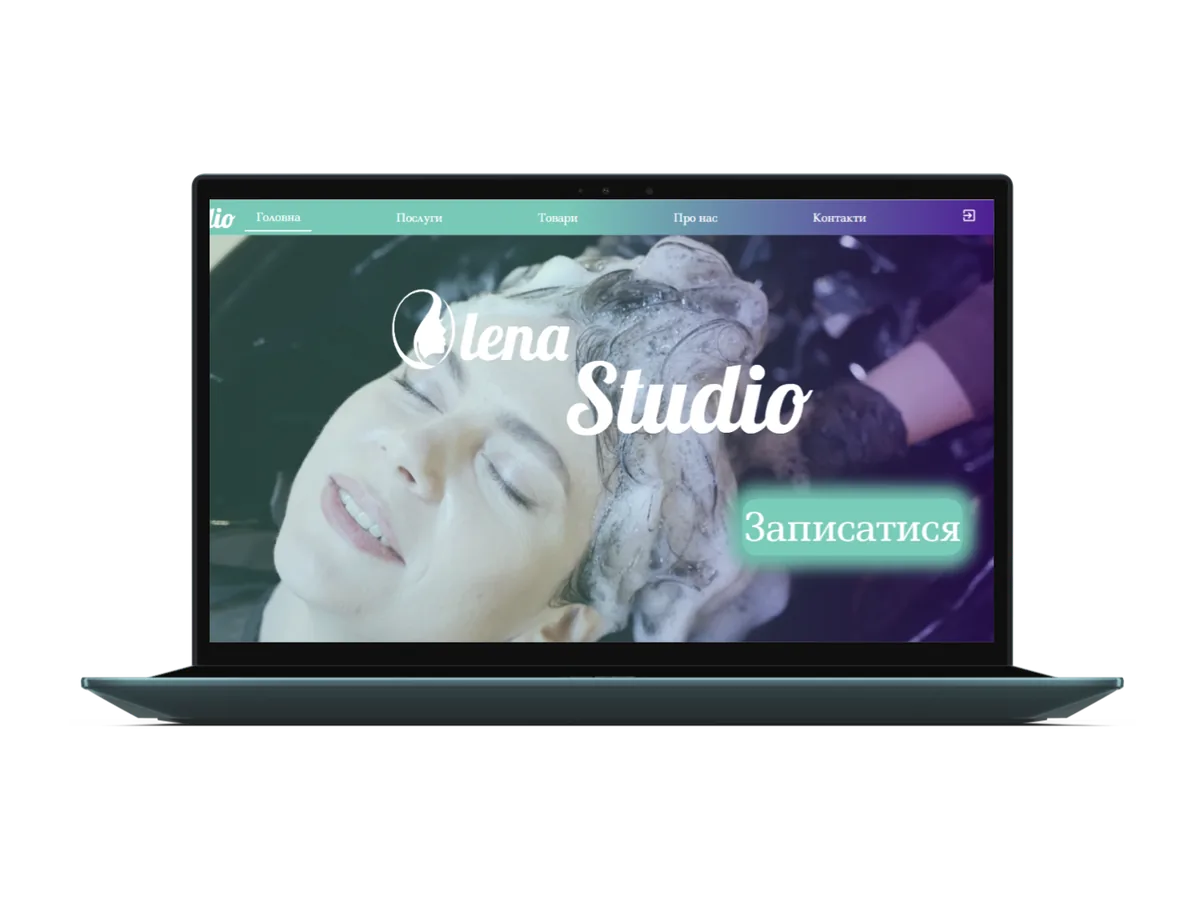
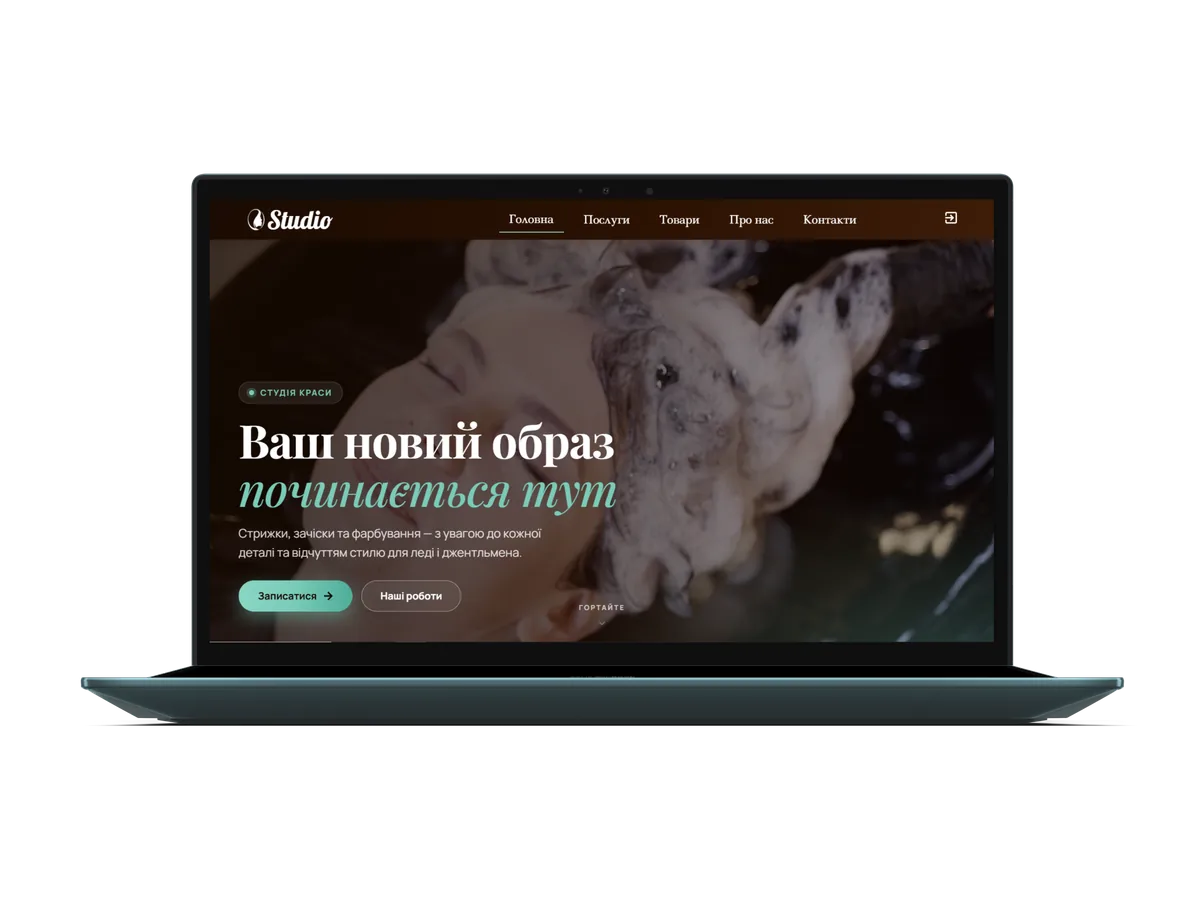
add new project and change img olena studio

diff --git a/src/constants/index.js b/src/constants/index.js
@@ -62,7 +62,27 @@ export const experience = [
 export const resumeUrl = `${import.meta.env.BASE_URL}files/MariiaSkydan_FullStack.pdf`;
 
 export const projects = [
-    {
+  {
+    id: 11,
+    title: "PetMind",
+    data: "2026",
+    skills: ["#react", "#typescript", "#supabase", "#scss"],
+    url: "https://pet-mind-two.vercel.app/",
+    foto: "./projects/petmind.webp",
+    alt: "PetMind — pet wellbeing web app",
+    text: "A full-stack SaaS-style app that turns a short personality quiz into a personalised care plan for a pet, then helps owners track its wellbeing over time. Onboarding funnel from landing to quiz, sign-up, paywall and dashboard; auth and data on Supabase (Postgres) with Row Level Security, triggers and SQL functions; species-aware reports, mood journal, weight and mood charts, weekly insights and a rule-based care coach. Freemium model with gated premium features and checkout. Built with React, TypeScript, Vite, React Router, SCSS Modules, Recharts and Supabase.",
+  },
+  {
+    id: 5,
+    title: "Website - 'Olena Studio'",
+    data: "2023",
+    skills: ["#react", "#node", "#redux", "#mongo", "#chart"],
+    url: "https://o-react.vercel.app/",
+    foto: "./projects/olena-studio.webp",
+    alt: "Olena Studio",
+    text: "Full stack website. Logining, salon appointment, products buy, etc. Separate admin account with setting products and more. Also, the site has an analysis for the administrator using React Chart. The documentation is written by Swagger.",
+  },
+  {
     id: 1,
     title: "Sweetopia",
     data: "2026-now",
@@ -72,7 +92,7 @@ export const projects = [
     alt: "Sweetopia",
     text: "A landing page about sweets, featuring animations and generated images, is currently under development. It is being created using AI.",
   },
-    {
+  {
     id: 2,
     title: "VerbUp",
     data: "2025-now",
@@ -101,16 +121,6 @@ export const projects = [
     foto: "./projects/watcharm.webp",
     alt: "Watcharm",
     text: "A responsive website built with attention to layout and performance. Role: Team Lead & Developer. Responsible for project setup on GitHub, checking build errors, monitoring live page performance, and developing the header component. Also contributed to team coordination, code reviews, and deployment process.",
-  },
-  {
-    id: 5,
-    title: "Website - 'Olena Studio'",
-    data: "2023",
-    skills: ["#react", "#node", "#redux", "#mongo", "#chart"],
-    url: "https://o-react.vercel.app/",
-    foto: "./projects/olena-studio.webp",
-    alt: "Olena Studio",
-    text: "Full stack website. Logining, salon appointment, products buy, etc. Separate admin account with setting products and more. Also, the site has an analysis for the administrator using React Chart. The documentation is written by Swagger.",
   },
   {
     id: 6,

diff --git a/src/components/projectCard/ProjectCard.jsx b/src/components/projectCard/ProjectCard.jsx
@@ -4,6 +4,17 @@ import { FiArrowUpRight } from "react-icons/fi";
 import c from "./ProjectCard.module.css";
 
 const ProjectCard = forwardRef(function ProjectCard({ project, featured = false }, ref) {
+  // a project without a live URL still renders, just not as a link
+  const Wrapper = project.url ? "a" : "div";
+  const linkProps = project.url
+    ? {
+        href: project.url,
+        target: "_blank",
+        rel: "noopener noreferrer",
+        "aria-label": `${project.title} — opens in a new tab`,
+      }
+    : {};
+
   return (
     <motion.article
       ref={ref}
@@ -14,13 +25,7 @@ const ProjectCard = forwardRef(function ProjectCard({ project, featured = false 
       transition={{ duration: 0.45, ease: [0.22, 1, 0.36, 1] }}
       className={`${c.card} ${featured ? c.featured : ""}`}
     >
-      <a
-        href={project.url}
-        target="_blank"
-        rel="noopener noreferrer"
-        className={c.link}
-        aria-label={`${project.title} — opens in a new tab`}
-      >
+      <Wrapper className={c.link} {...linkProps}>
         <div className={c.media}>
           <img
             src={project.foto}
@@ -44,13 +49,15 @@ const ProjectCard = forwardRef(function ProjectCard({ project, featured = false 
               <h3 className={c.title}>{project.title}</h3>
               <p className={c.date}>{project.data}</p>
             </div>
-            <span className={c.arrow}>
-              <FiArrowUpRight />
-            </span>
+            {project.url && (
+              <span className={c.arrow}>
+                <FiArrowUpRight />
+              </span>
+            )}
           </div>
           <p className={c.text}>{project.text}</p>
         </div>
-      </a>
+      </Wrapper>
     </motion.article>
   );
 });
